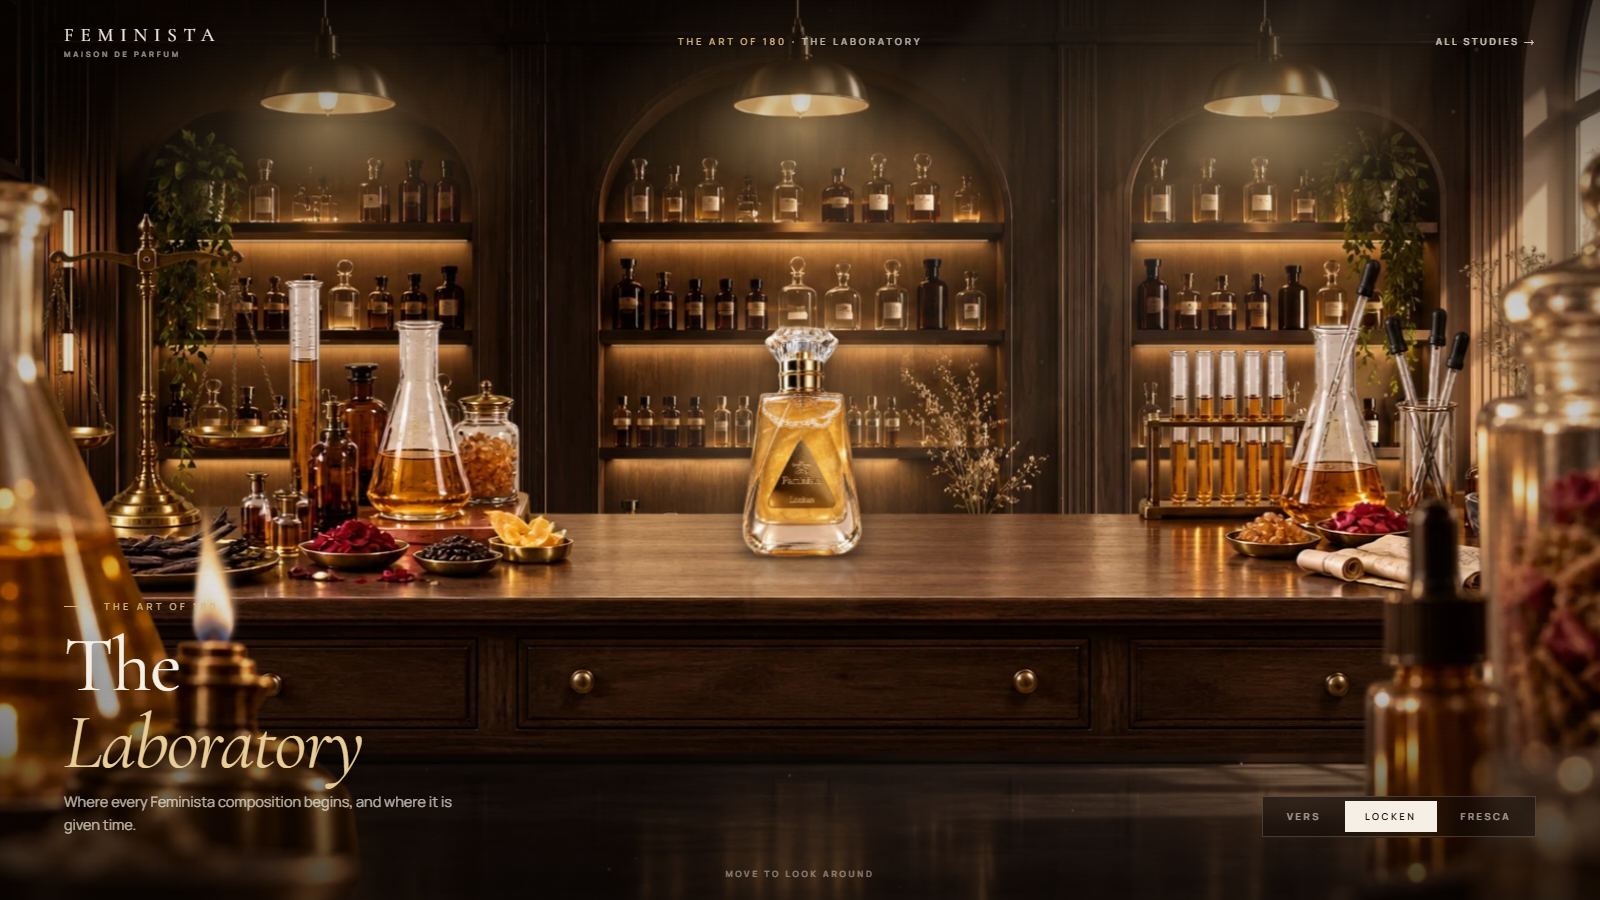
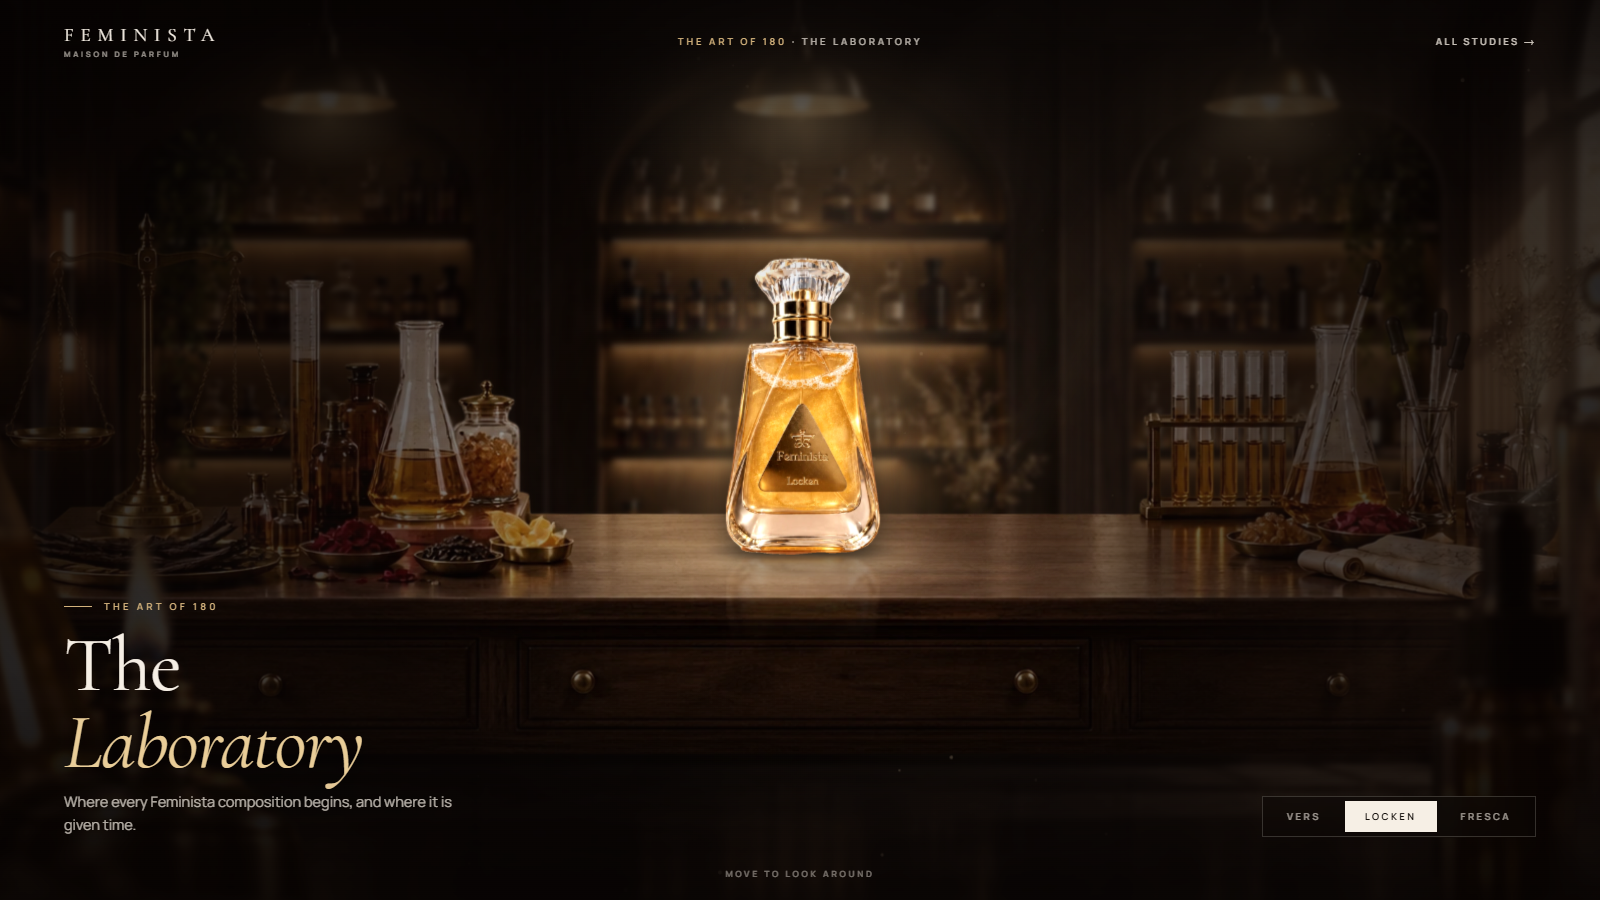
Laboratory: quieter room, soft spotlight, the bottle as the hero

diff --git a/lab-room.css b/lab-room.css
@@ -94,3 +94,36 @@ button { font: inherit; color: inherit; background: none; border: 0; cursor: poi
   .hint { display: none; }
 }
 @media (prefers-reduced-motion: reduce) { .lamp, .beams i { animation: none !important; } }
+
+/* ── quieter room, one hero: the bottle ───────────────────────────────── */
+/* the room falls back: dimmer and softly out of focus, like a real lens at the bench */
+.lit .room img { --roomb: .6; }
+.room img { filter: brightness(var(--roomb, .35)) saturate(.85) blur(2.4px); }
+.lamp { width: 20%; background: radial-gradient(closest-side, rgba(255, 214, 150, .4), rgba(255, 190, 110, .1) 45%, transparent 100%); }
+/* the bench: its far ends sink into shadow */
+.bench > .stage > img { filter: brightness(.82) saturate(.9);
+  -webkit-mask: linear-gradient(90deg, rgba(0,0,0,.45) 0%, #000 30%, #000 70%, rgba(0,0,0,.45) 100%); mask: linear-gradient(90deg, rgba(0,0,0,.45) 0%, #000 30%, #000 70%, rgba(0,0,0,.45) 100%); }
+/* the glass by the eye: darker, softer, only framing */
+.lit .fore img { --foreb: .45; }
+.fore img { filter: brightness(var(--foreb, .2)) saturate(.9) blur(2px); }
+.fore { --over: 1.16; }
+.beams i { opacity: 0; }
+.lit .beams i { animation: none; opacity: .55; }
+
+/* a spotlight from above on the centre of the bench */
+.cone { position: absolute; left: 50%; top: -6%; width: 34%; height: 76%; transform: translateX(-50%); mix-blend-mode: screen; opacity: 0; transition: opacity 2s var(--ease) 1.6s;
+  clip-path: polygon(42% 0, 58% 0, 100% 100%, 0 100%); filter: blur(14px);
+  background: linear-gradient(180deg, rgba(255, 230, 190, .03), rgba(255, 226, 180, .16) 70%, rgba(255, 220, 170, .2)); }
+.lit .cone { opacity: 1; }
+.pool { position: absolute; left: 50%; top: 58.5%; width: 26%; height: 7%; transform: translateX(-50%); border-radius: 50%; mix-blend-mode: screen; opacity: 0; transition: opacity 2s var(--ease) 2s;
+  background: radial-gradient(closest-side, rgba(255, 214, 160, .45), rgba(255, 200, 140, .12) 60%, transparent); }
+.lit .pool { opacity: 1; }
+.bottle { height: 31%; bottom: 38.6%; }
+.bottle .b { filter: drop-shadow(0 8px 14px rgba(0, 0, 0, .6)) drop-shadow(0 0 30px rgba(255, 200, 130, .22)) brightness(1.08) contrast(1.04); }
+/* the rest of the frame falls into shadow around the lit bench */
+.focus { position: absolute; inset: 0; pointer-events: none; opacity: 0; transition: opacity 2.4s var(--ease) 1.8s;
+  background: radial-gradient(30% 46% at 50% 50%, transparent 35%, rgba(8, 4, 3, .42) 75%, rgba(8, 4, 3, .62) 100%); }
+.lit .focus { opacity: 1; }
+.cone { clip-path: none; filter: none; top: -4%; width: 46%; height: 70%;
+  background: radial-gradient(38% 100% at 50% 0%, rgba(255, 228, 186, .2), rgba(255, 220, 170, .08) 55%, transparent 85%);
+  -webkit-mask: linear-gradient(180deg, transparent, #000 25%, #000 80%, transparent); mask: linear-gradient(180deg, transparent, #000 25%, #000 80%, transparent); }

diff --git a/lab-room.html b/lab-room.html
@@ -9,7 +9,7 @@
 <link rel="preconnect" href="https://fonts.googleapis.com"><link rel="preconnect" href="https://fonts.gstatic.com" crossorigin>
 <link href="https://fonts.googleapis.com/css2?family=Cormorant+Garamond:ital,wght@0,400;0,500;1,400&family=Manrope:wght@400;500;600&display=swap" rel="stylesheet">
 <link rel="preload" as="image" href="assets/lab2/room.webp">
-<link rel="stylesheet" href="lab-room.css?v=2">
+<link rel="stylesheet" href="lab-room.css?v=4">
 </head>
 <body>
 <div class="scene" id="scene" aria-label="Inside the Feminista laboratory">
@@ -26,12 +26,13 @@
     <!-- the workbench, and the bottle standing at its centre -->
     <div class="plane bench" style="--z:-150"><div class="stage">
       <img src="assets/lab2/bench.webp" alt="">
-      <div class="spot"></div>
+      <div class="spot"></div><div class="cone"></div><div class="pool"></div>
       <div class="bottle" id="bottle"><img class="b" id="b-img" src="assets/locken-cut.webp" alt="Locken by Feminista"><img class="r" id="b-refl" src="assets/locken-cut.webp" alt=""></div>
     </div></div>
     <!-- glass close to the eye -->
     <div class="plane fore" style="--z:230"><div class="stage"><img src="assets/lab2/fore.webp" alt=""></div></div>
   </div>
+  <div class="focus"></div>
   <div class="grade"></div>
   <div class="dark" id="dark"></div>
 </div>
